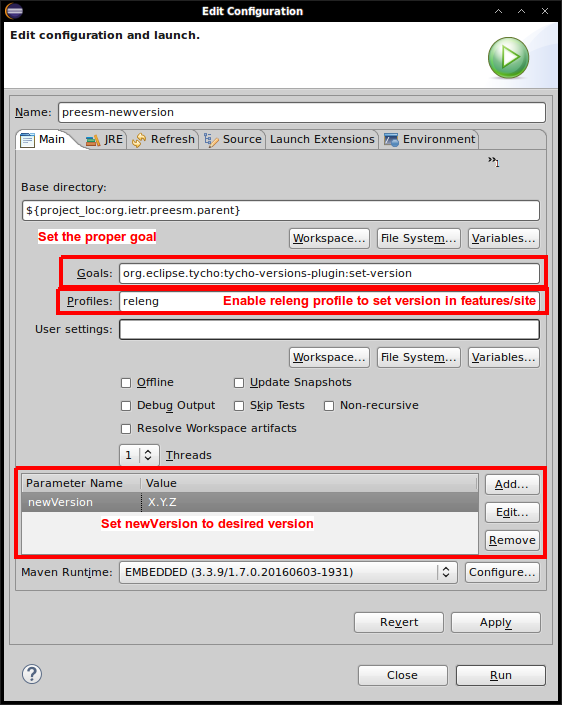
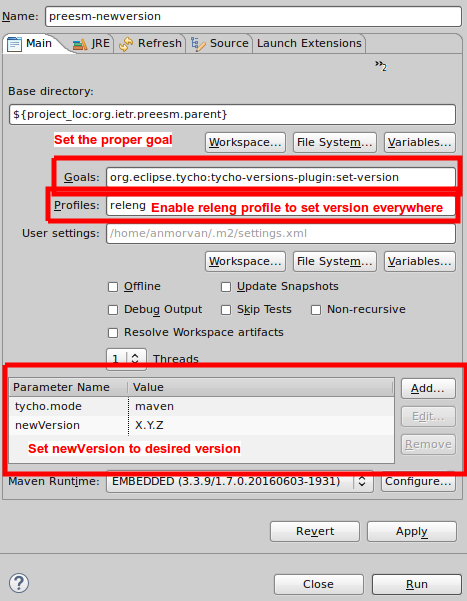
[DOCS] Update maintainer doc"

diff --git a/releng/README.md b/releng/README.md
@@ -101,6 +101,10 @@ In order to specifically build Eclipse plugins using Maven, the build process he
 *   Generate Java from [Xtend](https://eclipse.org/xtend/documentation/) files;
 *   Run [tests within an OSGi runtime](https://eclipse.org/tycho/sitedocs/tycho-surefire/tycho-surefire-plugin/plugin-info.html) and compute [code coverage](http://www.eclemma.org/jacoco/);
 
+A full build (including product and update site) is triggered with the following command:
+
+-   `mvn -P releng clean verify`
+
 #### Release Engineering
 Using the **releng** [Maven profile](http://maven.apache.org/guides/introduction/introduction-to-profiles.html) (disabled by default), additional actions are available:
 
@@ -238,14 +242,15 @@ During the Maven deploy phase, the content is automatically uploaded to those lo
 | org.ietr.preesm.product/ | Maven module for generating the end user products |
 | org.ietr.preesm.rcp.utils/ | Small Eclipse plugin for configuring the products |
 | auto_convert_encoding_and_lineendings.sh | Bash script for converting all file line endings to Linux and charset to UTF-8 |
+| run_checkstyle.sh | Small Bash script that calls Maven with proper arguments to check the coding policy |
 | copyright_template.txt | Copyright template to include in file headers |
 | fix_header_copyright_and_authors.sh | Bash script that replaces copyright template tokens (i.e. %%DATE%%) with data fetched from the git log |
 | HowToRelease.md | Old release procedure |
 | pom.xml | The main releng POM. Adds two P2 repositories for product and dev feature build. |
 | README.md | This file |
 | update-version.sh | Small Bash script that calls Maven with proper arguments to set a new version for all submodules. |
-| VAADER_checkstyle.xml | Preesm Checkstyle configuration file |
-| VAADER_eclipse_preferences.epf | Preesm Eclipse preferences file |
+| VAADER_checkstyle.xml | Preesm Checkstyle configuration file (developed by VAADER team) |
+| VAADER_eclipse_preferences.epf | Preesm Eclipse preferences file (developed by VAADER team) |
 
 Build Process in Maven
 ----------------------
@@ -257,7 +262,6 @@ This section details how the Preesm project is built using Maven. Graphiti and D
 The Maven build process is defined in [POM files](https://maven.apache.org/guides/introduction/introduction-to-the-pom.html). The POM files can define build properties, reference external repositories, declare sub modules, call and configure Maven plugins, define profiles, etc.
 
 Each Eclipse plugin in the Preesm project has its own POM file. On top of that, there is a [parent POM](http://www.javavillage.in/maven-parent-pom.php), that defines project wide properties, Maven plugin configuration, [Maven profiles](http://maven.apache.org/guides/introduction/introduction-to-profiles.html), and the list of [submodules](https://maven.apache.org/guides/mini/guide-multiple-modules.html). The projects also have few intermediate POM files (`releng/pom.xml`, `test-fragments/pom.xml`, ...). They add some configuration for dedicated parts of the test or release process.
-
 
 The build of the project is triggered using the following command: `mvn clean verify`. This calls two Maven goals from two different [Maven Build Lifecycles](http://maven.apache.org/guides/introduction/introduction-to-the-lifecycle.html#Build_Lifecycle_Basics):
 
@@ -364,6 +368,10 @@ This section details what plugins are bound to which phases (including clean lif
 #### deploy
 
 *   [maven-deploy-plugin](http://maven.apache.org/plugins/maven-deploy-plugin/): disable the default deploy plugin. This is due to issues when deploying P2 repositories on SourceForge. The actual deploy procedure is detailed in the [Release Engineering in Maven](#release-engineering-in-maven) section.
+
+### The tycho.mode setting
+
+
 
 Eclipse Setup
 -------------
@@ -571,16 +579,20 @@ Howto
 
 ### Update Project Version
 
+### Update Project Version
+
 In the root folder of the project, run
 
-*   `mvn -P releng org.eclipse.tycho:tycho-versions-plugin:set-version -DnewVersion=X.Y.Z
+*   `mvn -Dtycho.mode=maven -P releng org.eclipse.tycho:tycho-versions-plugin:set-version -DnewVersion=X.Y.Z
 `
+
+**Note:** The variable **tycho.mode** set to **maven** disable Tycho dependency resolver. Resolving P2 dependencies takes a long time is useless for setting the new version, thus we can skip it.
 
 This can be done from Eclipse (see procedure to [call Maven from Eclipse](#running-maven-from-eclipse)):
 
 ![Run configuration for updating versions](doc/setNewVersionWithMavenFromEclipse.png "Run configuration for calling 'mvn -P releng org.eclipse.tycho:tycho-versions-plugin:set-version -DnewVersion=X.Y.Z' from Eclipse.")
 
-Alternatively, from a shell, the script `/releng/update-version.sh X.Y.Z` wraps the maven call.
+Alternatively, from a shell, the script `/releng/update-version.sh X.Y.Z` wraps the Maven call.
 
 ### Deploy
 
